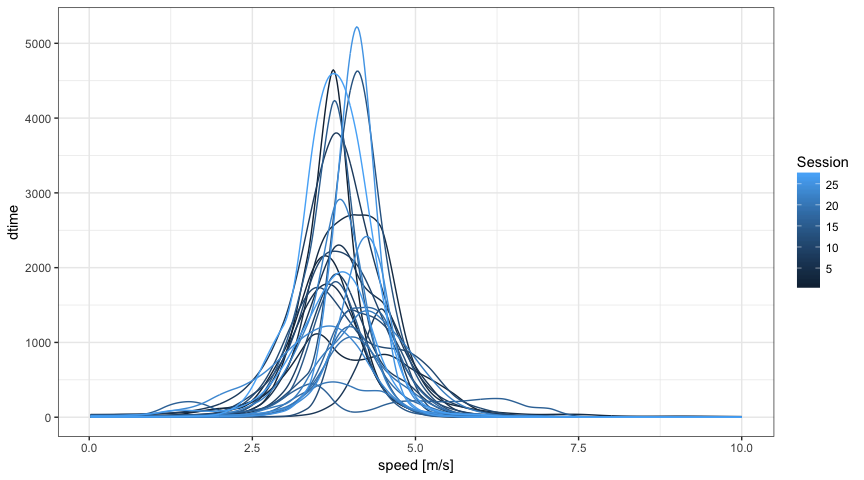
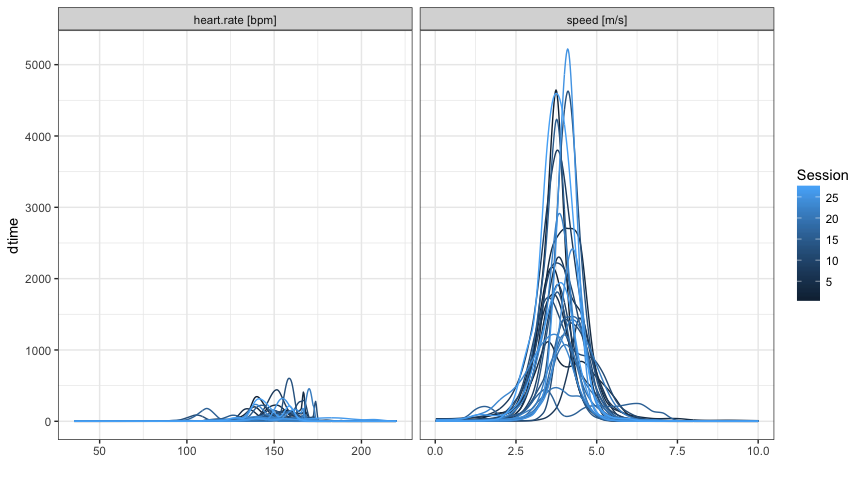
README updates

diff --git a/README.md b/README.md
@@ -98,7 +98,7 @@ Summarise sessions
 Generate distribution and concentration profiles
 
     runsT <- threshold(runs)
-    dpRuns <- distributionProfile(runsT, what = "speed")
+    dpRuns <- distributionProfile(runsT, what = c("speed", "heart.rate"))
     dpRunsS <- smoother(dpRuns)
     cpRuns <- concentrationProfile(dpRunsS)
     plot(cpRuns, multiple = TRUE, smooth = FALSE)
@@ -107,9 +107,13 @@ Generate distribution and concentration profiles
 
 A ridgeline plot of the concentration profiles
 
-    ridges(cpRuns)
+    ridges(cpRuns, what = "speed")
 
 ![](README_files/figure-markdown_github/cprofile-ridges-1.png)
+
+    ridges(cpRuns, what = "heart.rate")
+
+![](README_files/figure-markdown_github/cprofile-ridges-hr-1.png)
 
 Explore concentration profiles for speed, e.g., via functional principal
 components analysis (PCA)
